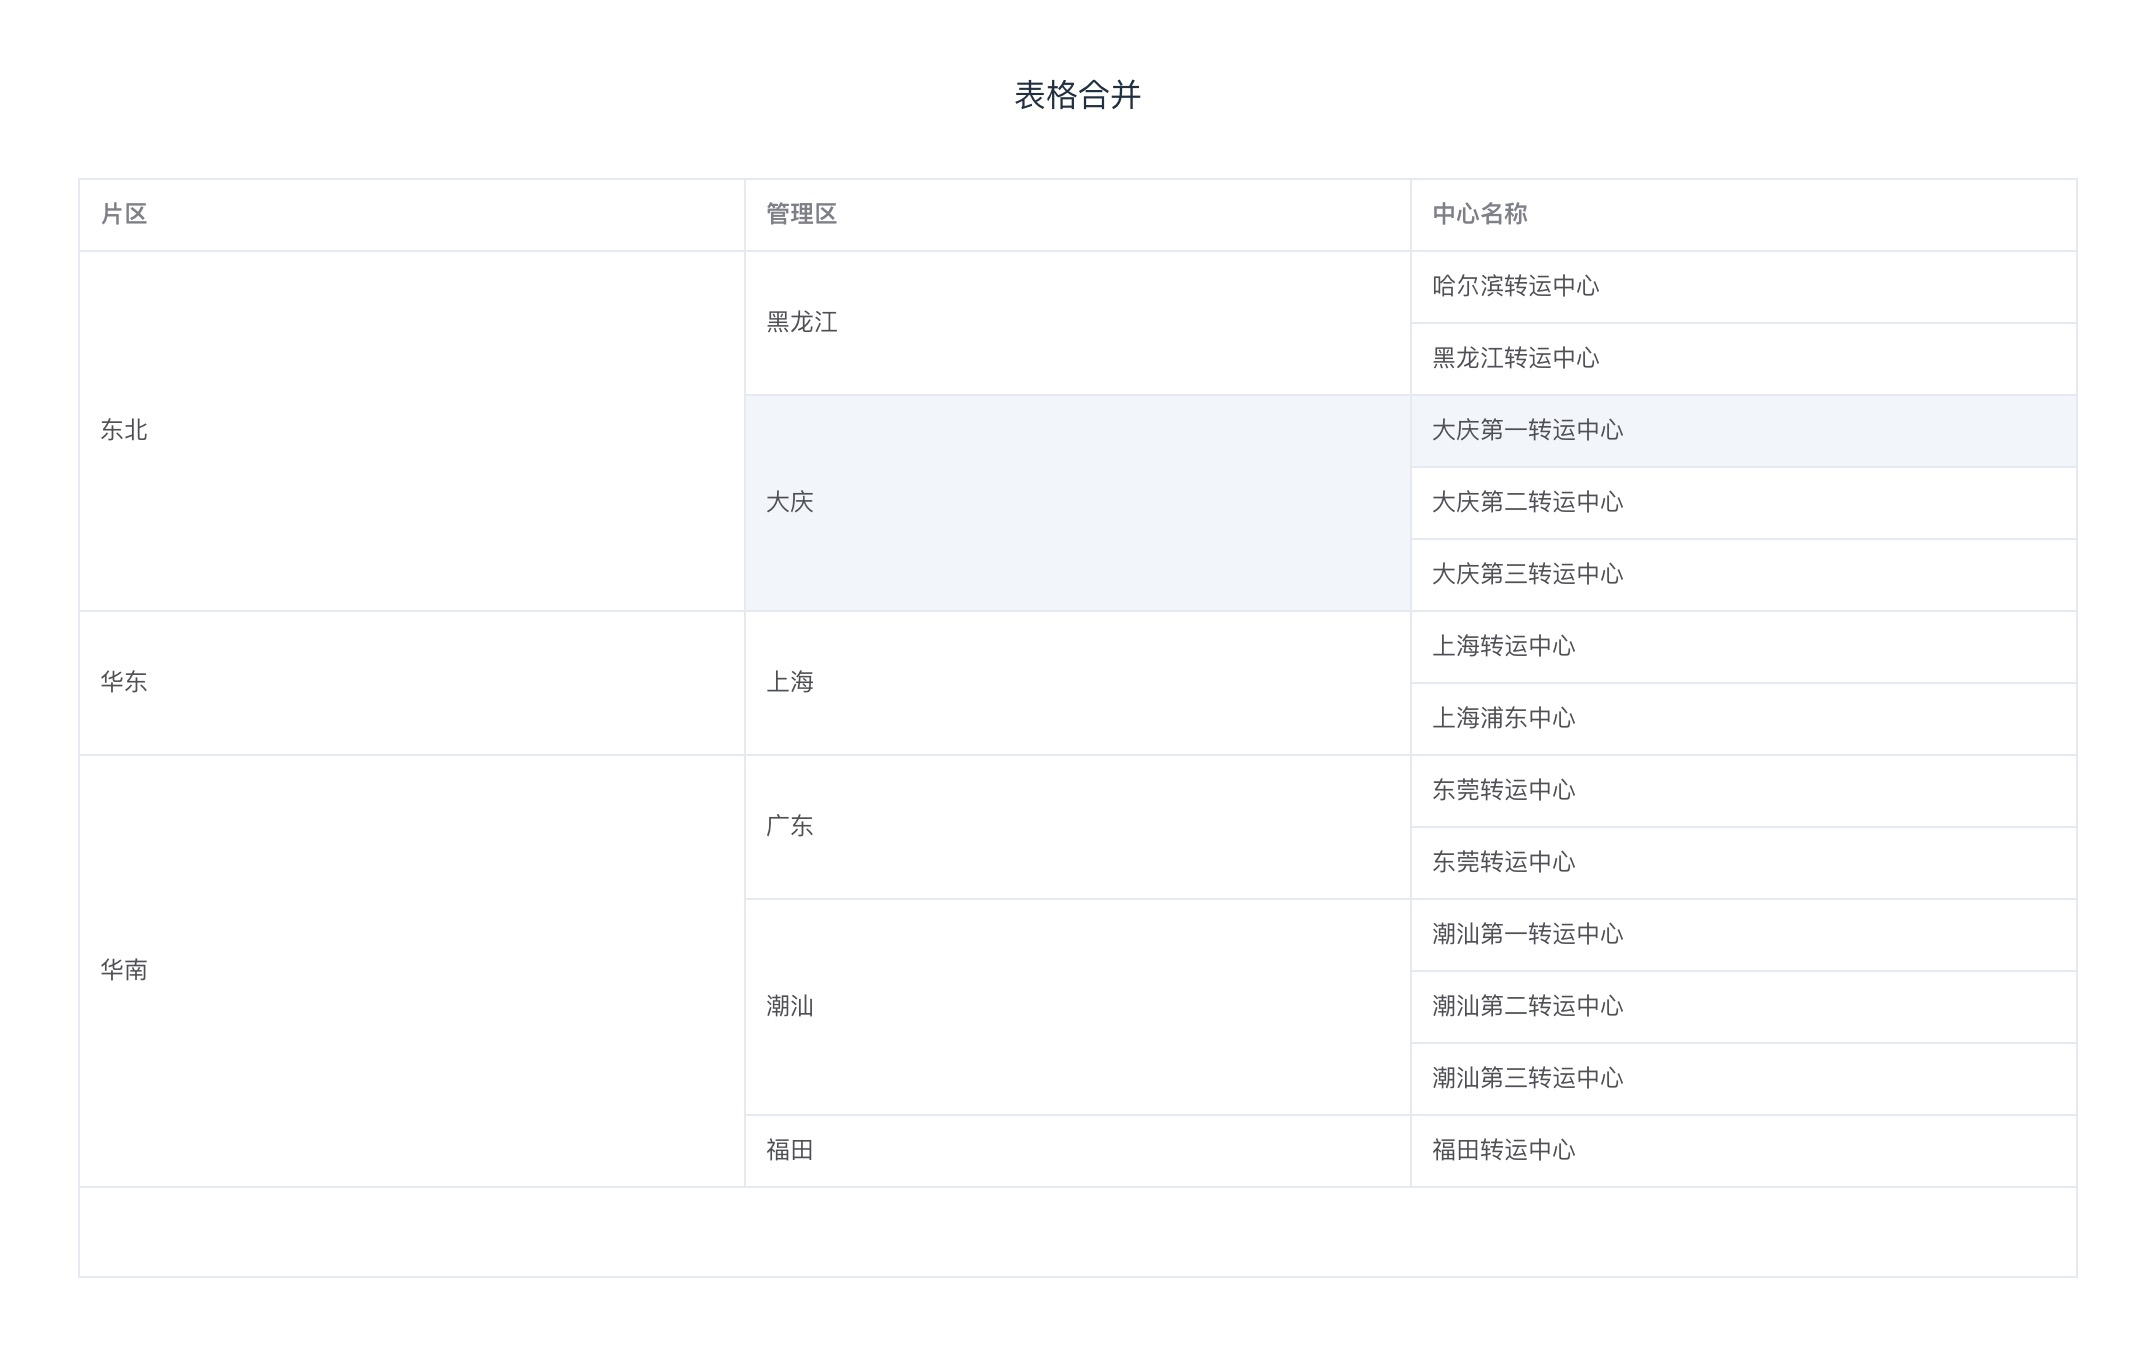
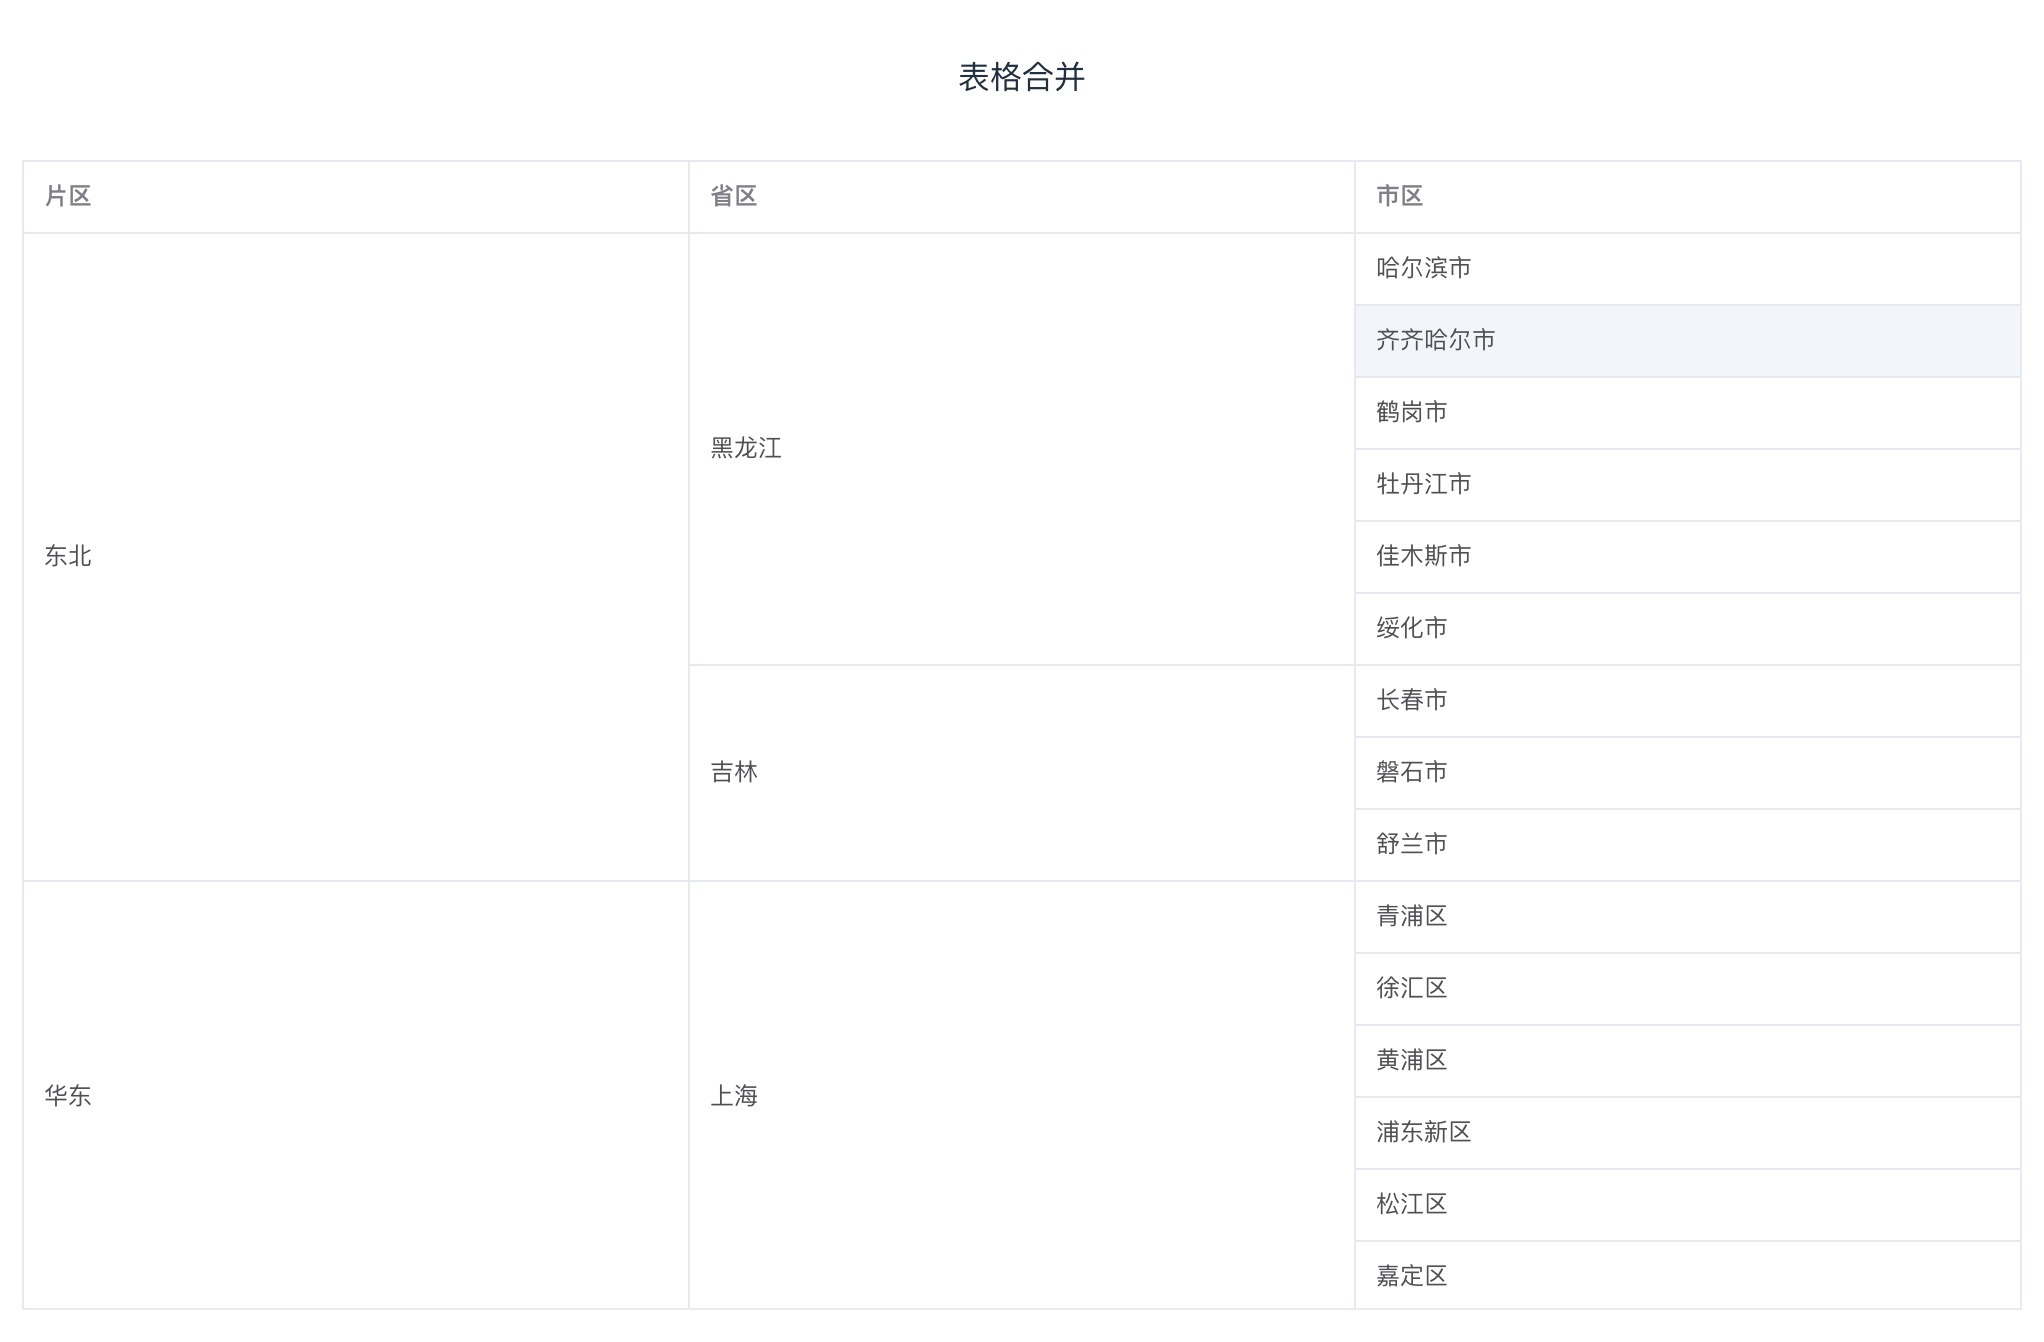
数据修改

diff --git a/src/components/js/options.js b/src/components/js/options.js
@@ -11,79 +11,89 @@ const tableTitleData = [
   {
     minWidth: '100',
     prop: 'managementAreaName',
-    label: '管理区'
+    label: '省区'
   },
   {
     minWidth: '100',
     prop: 'centerName',
-    label: '中心名称'
+    label: '市区'
   }
 ];
 const tableData = [
   {
     areaName: '东北',
     managementAreaName: '黑龙江',
-    centerName: '哈尔滨转运中心'
+    centerName: '哈尔滨市'
   },
   {
     areaName: '东北',
     managementAreaName: '黑龙江',
-    centerName: '黑龙江转运中心'
+    centerName: '齐齐哈尔市'
   },
   {
     areaName: '东北',
-    managementAreaName: '大庆',
-    centerName: '大庆第一转运中心'
+    managementAreaName: '黑龙江',
+    centerName: '鹤岗市'
   },
   {
     areaName: '东北',
-    managementAreaName: '大庆',
-    centerName: '大庆第二转运中心'
+    managementAreaName: '黑龙江',
+    centerName: '牡丹江市'
   },
   {
     areaName: '东北',
-    managementAreaName: '大庆',
-    centerName: '大庆第三转运中心'
+    managementAreaName: '黑龙江',
+    centerName: '佳木斯市'
+  },
+  {
+    areaName: '东北',
+    managementAreaName: '黑龙江',
+    centerName: '绥化市'
+  },
+  {
+    areaName: '东北',
+    managementAreaName: '吉林',
+    centerName: '长春市'
+  },
+  {
+    areaName: '东北',
+    managementAreaName: '吉林',
+    centerName: '磐石市'
+  },
+  {
+    areaName: '东北',
+    managementAreaName: '吉林',
+    centerName: '舒兰市'
   },
   {
     areaName: '华东',
     managementAreaName: '上海',
-    centerName: '上海转运中心'
+    centerName: '青浦区'
   },
   {
     areaName: '华东',
     managementAreaName: '上海',
-    centerName: '上海浦东中心'
+    centerName: '徐汇区'
   },
   {
-    areaName: '华南',
-    managementAreaName: '广东',
-    centerName: '东莞转运中心'
+    areaName: '华东',
+    managementAreaName: '上海',
+    centerName: '黄浦区'
   },
   {
-    areaName: '华南',
-    managementAreaName: '广东',
-    centerName: '东莞转运中心'
+    areaName: '华东',
+    managementAreaName: '上海',
+    centerName: '浦东新区'
   },
   {
-    areaName: '华南',
-    managementAreaName: '潮汕',
-    centerName: '潮汕第一转运中心',
+    areaName: '华东',
+    managementAreaName: '上海',
+    centerName: '松江区'
   },
   {
-    areaName: '华南',
-    managementAreaName: '潮汕',
-    centerName: '潮汕第二转运中心'
-  },
-  {
-    areaName: '华南',
-    managementAreaName: '潮汕',
-    centerName: '潮汕第三转运中心'
-  },
-  {
-    areaName: '华南',
-    managementAreaName: '福田',
-    centerName: '福田转运中心'
+    areaName: '华东',
+    managementAreaName: '上海',
+    centerName: '嘉定区'
   }
 ];
 export { tableTitleData, tableData };

diff --git a/src/components/mergeTable.vue b/src/components/mergeTable.vue
@@ -3,7 +3,7 @@
     {{msg}}
     <div>
       <el-table :data="tableData" :span-method="arraySpanMethod" border style="width: 1000px;margin:30px auto;"
-        height="550">
+        height="575">
         <el-table-column v-for="(item, index) in tableTitleData" :key="index" :prop="item.prop" :label="item.label"
           :min-width="item.minWidth">
           <template slot-scope="scope">

diff --git a/README.md b/README.md
@@ -23,8 +23,8 @@ npm run build --report
 <!-- [24K 博客](https://libing.art/2019/09/16/qian-duan-fen-ye/) -->
 ### 1、合并前后效果图
 
-![合并前](https://github.com/libing-cheer/merge-table/blob/master/src/assets/beforeMerge.png)
-![合并后](https://github.com/libing-cheer/merge-table/blob/master/src/assets/afterMerge.png)
+![合并前](https://raw.githubusercontent.com/libing-cheer/merge-table/master/src/assets/beforeMerge.png)
+![合并后](https://raw.githubusercontent.com/libing-cheer/merge-table/master/src/assets/afterMerge.png)
 
 ### 2、代码实现
 
